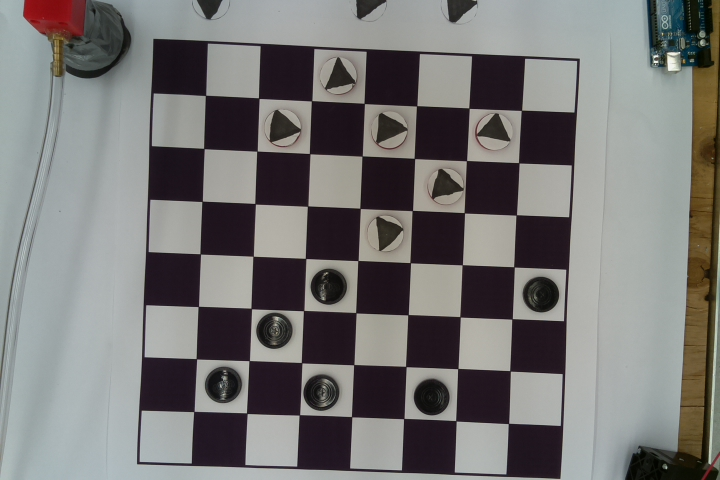
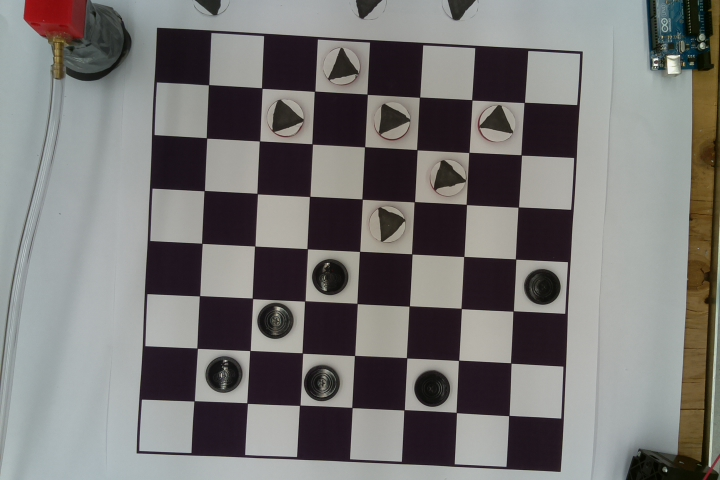
picam working

diff --git a/picameracode.py b/picameracode.py
@@ -8,7 +8,7 @@ def getState():
 		takes the picture from the PiCamera and saves it to the desktop
 	"""
 	camera = picamera.PiCamera()
-	time.sleep(4)
+	time.sleep(1)
 	camera.capture('/home/pi/Robot-Game/res/boardStateNew.jpg')
 	camera.close()
 
@@ -100,12 +100,7 @@ def getBoardList(contours):
 	for cnt in contours:
 	
 		m = cv2.moments(cnt)
-		if m['m00'] > big: # trying to find the biggest contour
-			big = m['m00']
-			c = cnt
-			mom = m
-
-		if m['m00'] >10000 and m['m00'] <100000:
+		if m['m00'] >100000 and m['m00'] <220000:
 			centerX, centerY = int(m['m10']/m['m00']), int(m['m01']/m['m00'])
 			cornerX, cornerY = cnt[0][0][0], cnt[0][0][1]
 
@@ -162,7 +157,7 @@ def picam_main():
 	brdCountour = getContour(img)
 	# clrCountour = getColor(img)
 	brdList, centerX, centerY, cornerX, cornerY = getBoardList(brdCountour)
-	clrList = getColorList(brdCountour)
+	clrList = getTriangleList(brdCountour)
 
 	brdDict = imageToBoard(brdList, centerX, centerY, cornerX, cornerY)
 	clrDict = imageToBoardColor(brdDict, clrList ,centerX, centerY, cornerX, cornerY)
